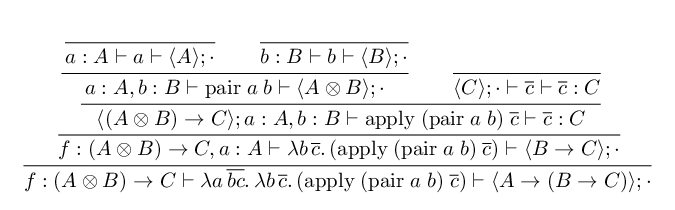
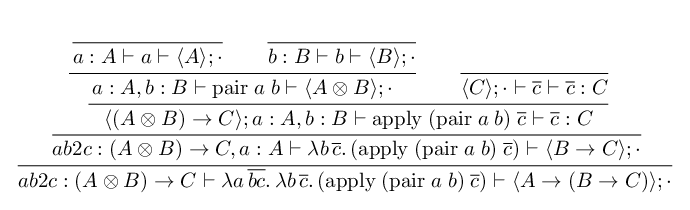
use the same variable name in LaTeX and the code

diff --git a/latex/example-curry.tex b/latex/example-curry.tex
@@ -1,5 +1,5 @@
 \documentclass{article}
-\usepackage[paperwidth=4.5in,paperheight=1.4in,margin=0.1in]{geometry}
+\usepackage[paperwidth=4.6in,paperheight=1.4in,margin=0.1in]{geometry}
 \usepackage{mathtools}
 \usepackage{amsmath}
 \usepackage{amssymb}
@@ -36,9 +36,9 @@
       }
       {\langle (A \otimes B) \to C \rangle; a : A, b : B \vdash \text{apply}\;(\text{pair}\;a\;b)\;\overline{c} \vdash \overline{c} : C}
     }
-    {f : (A \otimes B) \to C, a : A \vdash \lambda b\,\overline{c}.\,(\text{apply}\;(\text{pair}\;a\;b)\;\overline{c}) \vdash \langle B \to C \rangle; \cdot}
+    {ab2c : (A \otimes B) \to C, a : A \vdash \lambda b\,\overline{c}.\,(\text{apply}\;(\text{pair}\;a\;b)\;\overline{c}) \vdash \langle B \to C \rangle; \cdot}
   }
-  {f : (A \otimes B) \to C \vdash \lambda a\,\overline{bc}.\,\lambda b\,\overline{c}.\,(\text{apply}\;(\text{pair}\;a\;b)\;\overline{c}) \vdash \langle A \to (B \to C) \rangle; \cdot}
+  {ab2c : (A \otimes B) \to C \vdash \lambda a\,\overline{bc}.\,\lambda b\,\overline{c}.\,(\text{apply}\;(\text{pair}\;a\;b)\;\overline{c}) \vdash \langle A \to (B \to C) \rangle; \cdot}
 \]
 
 \end{document}
